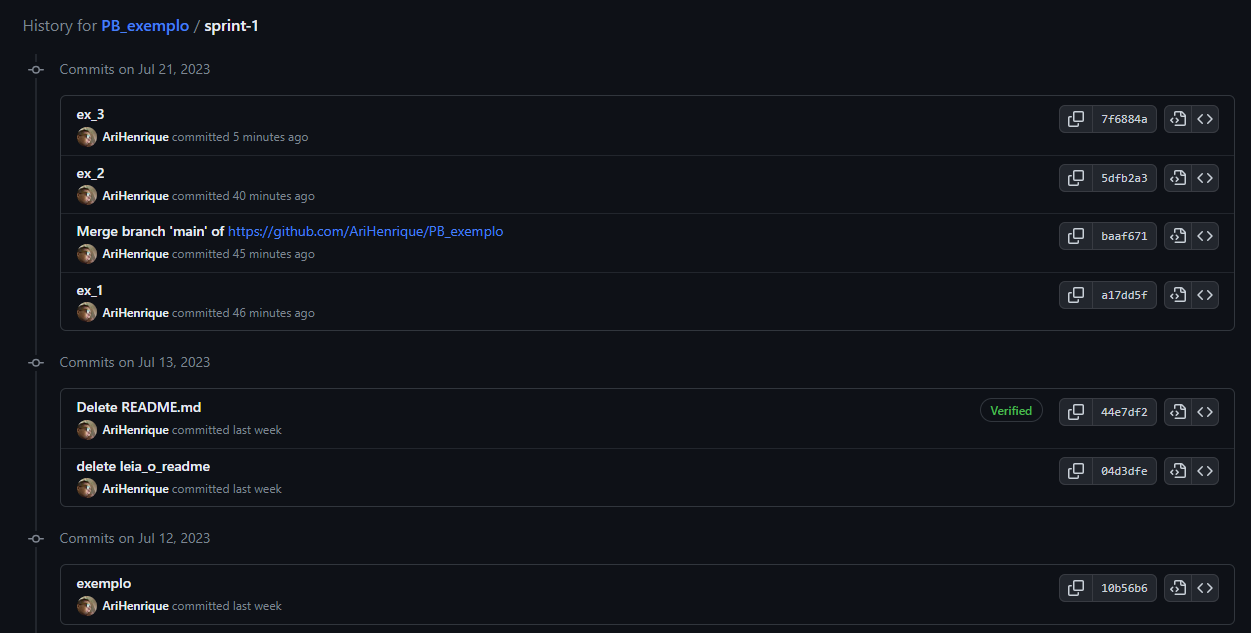
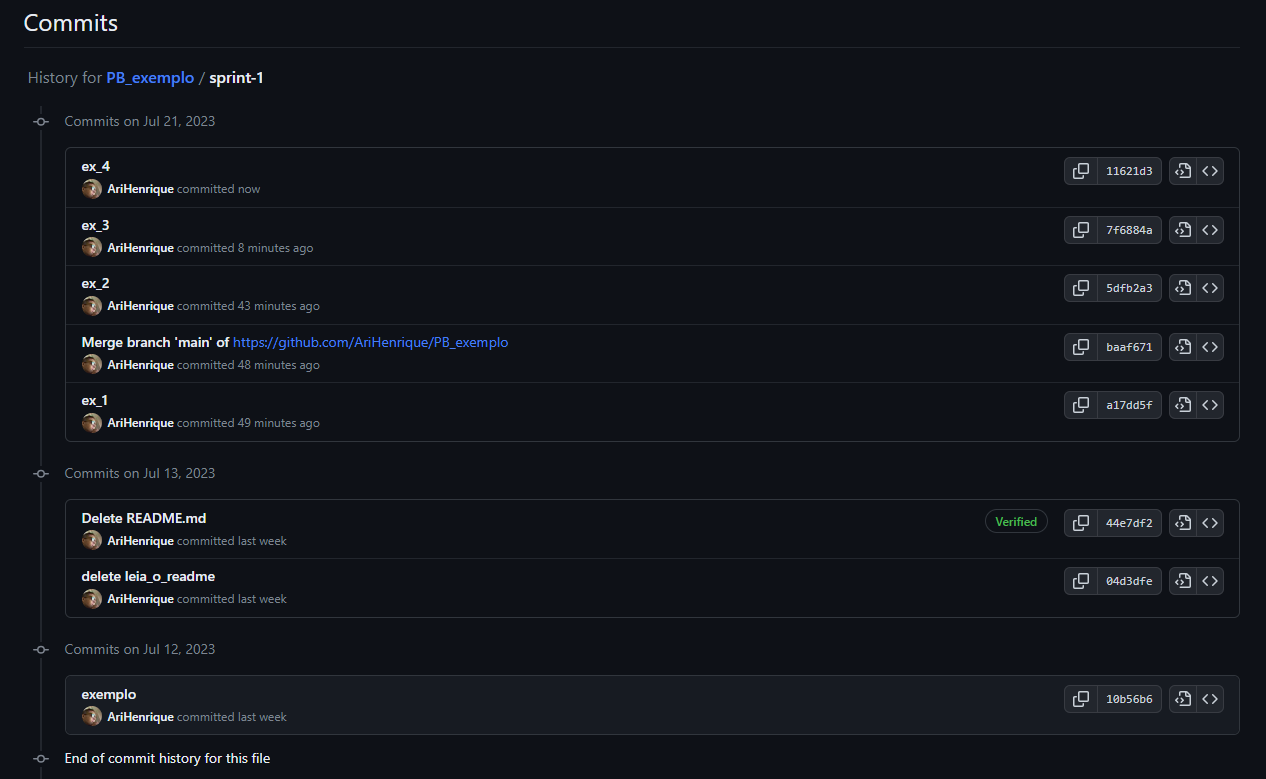
concluded sprint 1

diff --git a/sprint-1/README.md b/sprint-1/README.md
@@ -1,7 +1,20 @@
-# D&A - AWS [Compass.uol](https://compass.uol/pt/home/?utm_source=google-ads&utm_medium=ppc&utm_campaign=compasso-uol-institucional&utm_term=compass+uol)
+# Sprint 1 - git/github/linux
 
-### Preparamos esta trilha de aprendizagem para que você possa navegar pelas diferentes tecnologias e metodologias aplicadas em projetos de dados utilizando os serviços de nuvem da AWS como plataforma. Organizamos o conteúdo em 10 Sprints, cada qual sendo executada em um período de 14 dias. É importante que você respeite a sequência de conteúdos e exercícios que estamos propondo para alcançar melhores resultados.
+#### Ferramentas de versionamento de código são essenciais para o sucesso de projetos que envolvem código. Atualmente o Git é padrão de mercado, sendo amplamente utilizado em projetos de dados. Não menos importantes são os sistemas operacionais baseados em Linux, cujo conhecimento dos princípios básicos de operação e comandos de terminal mais comuns são necessários a qualquer profissional da área de Data & Analytics.
 
+## Exercícios:
+
+[Execício 1](./exercicios/ex_1.md)
+
+[Execício 2](./exercicios/ex_1.md)
+
+[Execício 3](./exercicios/ex_1.md)
+
+[Execício 4](./exercicios/ex_1.md)
+
+
+[Certificado Git e GitHub](./certificados/git_github.jpg)
+<img src="./certificados/git_github.jpg" width="400">
 
 # Olá meu nome é Aristides Henrique
 
@@ -30,26 +43,3 @@ Como eu era conhecido como o "garoto da tecnologia" no meu bairro, frequentement
 Na escola, sempre que alguma professora ou funcionário tinha problemas com o computador, me chamavam para tentar arrumar. Foi nessa época que tive meu primeiro contato com o computador, ao experimentar jogar um emulador de GBA (Game Boy Advance), no qual consegui juntar dinheiro suficiente para comprar um disquete de 3,5 polegadas, com impressionantes 1.44 MB de capacidade, o suficiente para armazenar o emulador e o save do jogo.
 
 A única forma de acesso à internet naquela época era através da internet discada ou indo à biblioteca da cidade. Bons tempos aqueles...
-
-## Sprint 1 - git/github/linux
-
-#### Ferramentas de versionamento de código são essenciais para o sucesso de projetos que envolvem código. Atualmente o Git é padrão de mercado, sendo amplamente utilizado em projetos de dados. Não menos importantes são os sistemas operacionais baseados em Linux, cujo conhecimento dos princípios básicos de operação e comandos de terminal mais comuns são necessários a qualquer profissional da área de Data & Analytics.
-
-### Exercícios:
-
-[Execício 1](./exercicios/ex_1.md)
-
-[Execício 2](./exercicios/ex_1.md)
-
-[Execício 3](./exercicios/ex_1.md)
-
-[Execício 4](./exercicios/ex_1.md)
-
-[Certificado Git e GitHub](./certificados/git_github.jpg)
-
-## Sprint 2 - Big Data e SQL
-### em breve...
-## Sprint 3 - Fundamentos Python
-### em breve...
-
-## Sprint 4, 5, 6 ...
